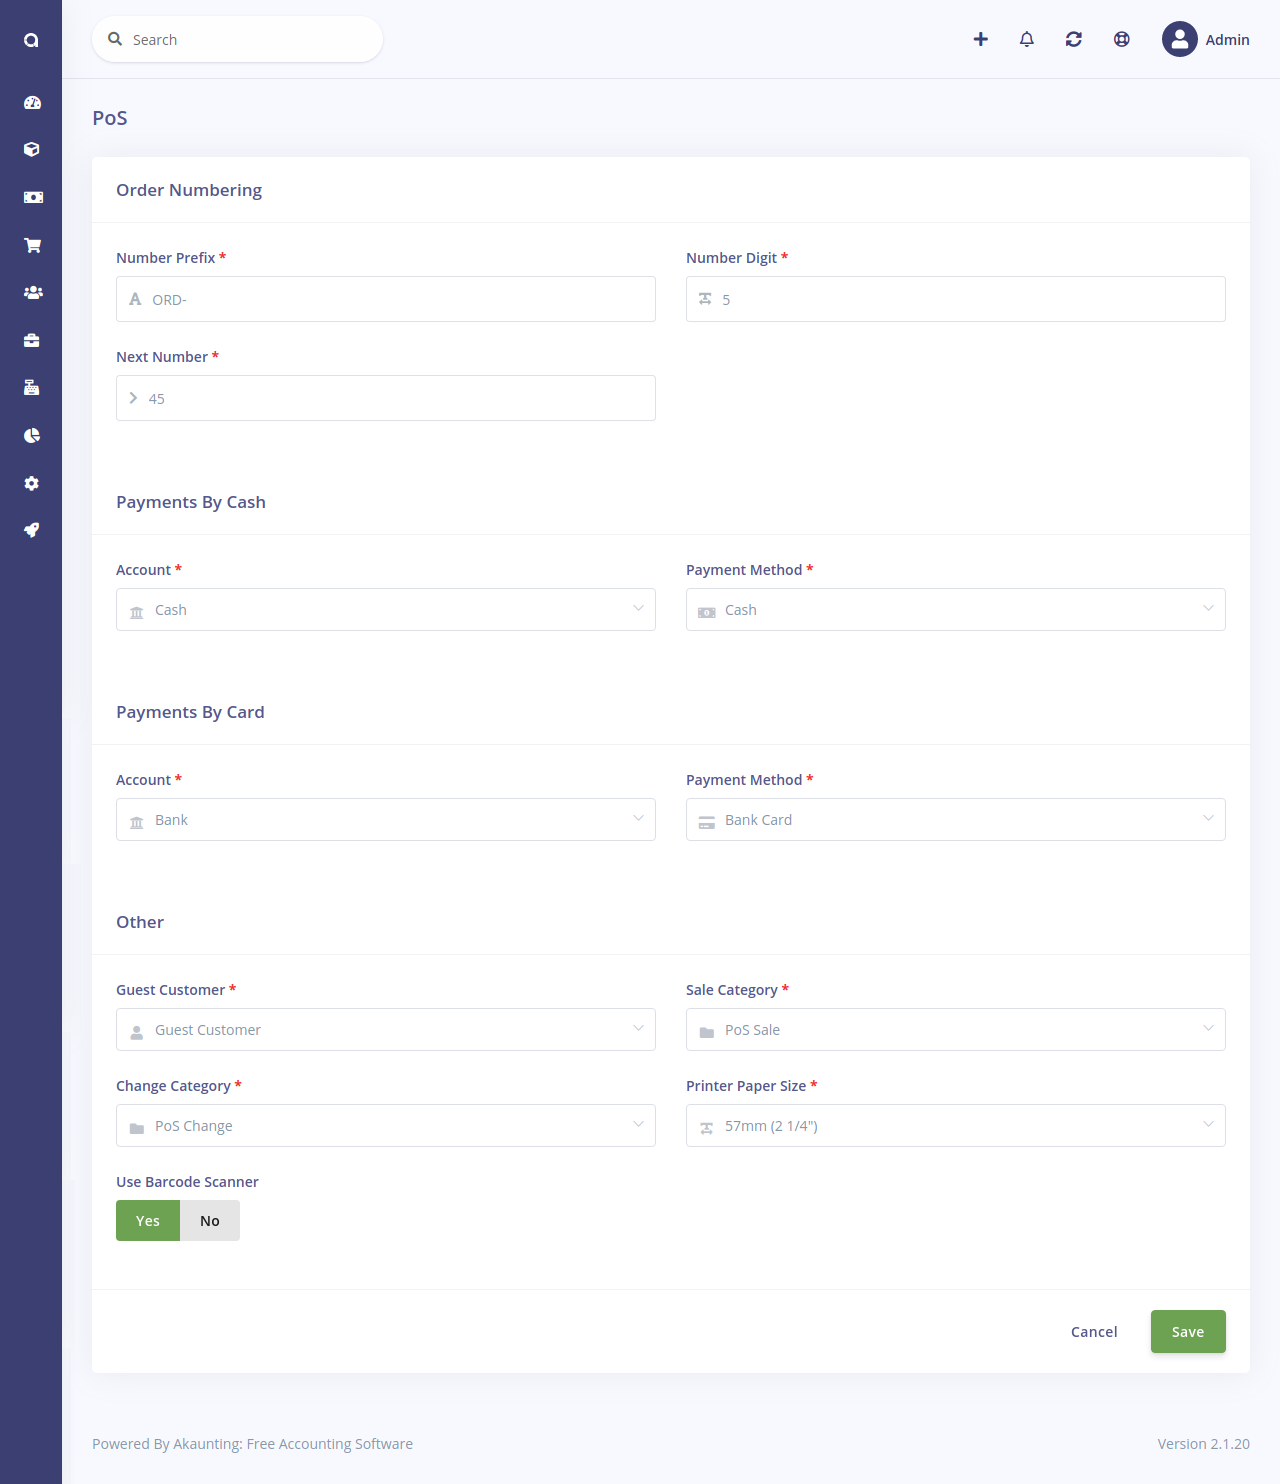
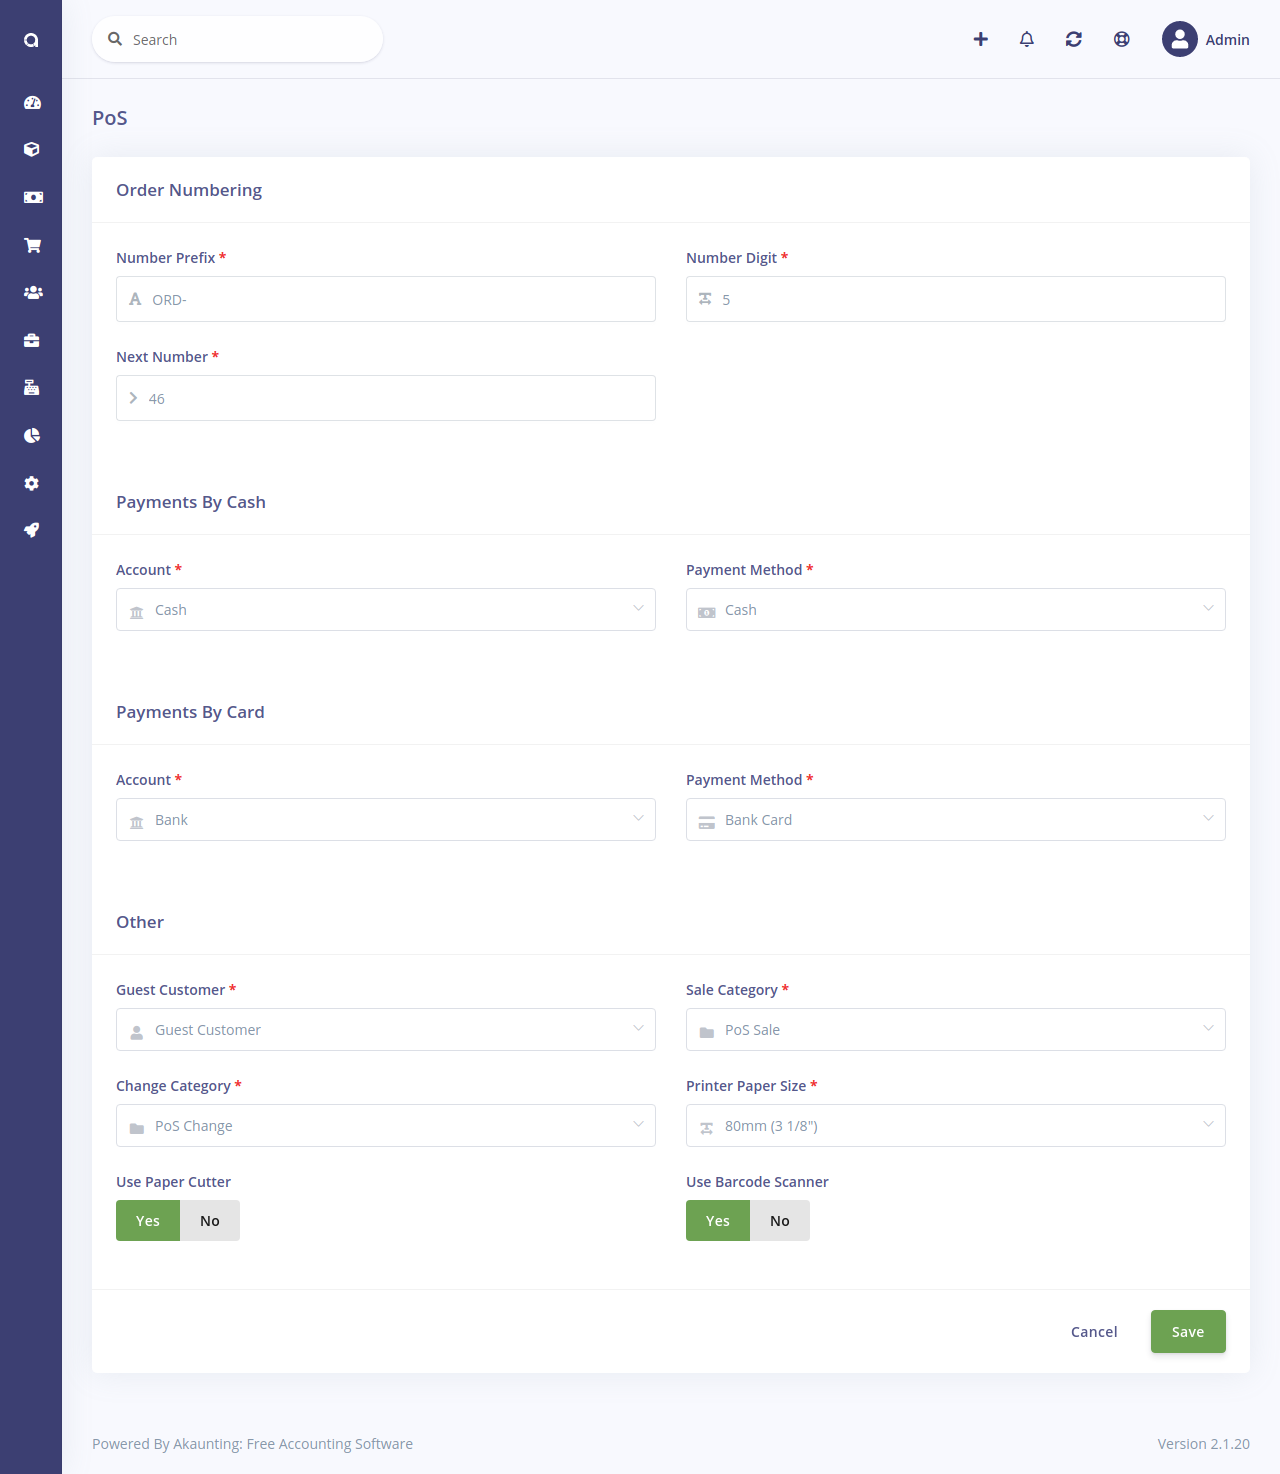
Add information about using a paper cutter.

diff --git a/en/app-manual/point-of-sale/pos.md b/en/app-manual/point-of-sale/pos.md
@@ -36,6 +36,8 @@ It is advised to start by checking the PoS settings. Make sure that all settings
 
 **Printer paper size** allows you to adjust a receipt's size to your printer's paper width.
 
+**Paper cutter usage** switch if enabled, will make a receipt having a page break below all the content. Most receipt printers use the page break as a command to cut the paper.
+
 **Barcode scanner usage** switch controls the search field behavior. When it is set to "Yes", then the search field will automatically get focus, allowing you to scan goods sequentially, one by one.
 
 ![Settings form](_images/pos-settings-pos-form.png)
